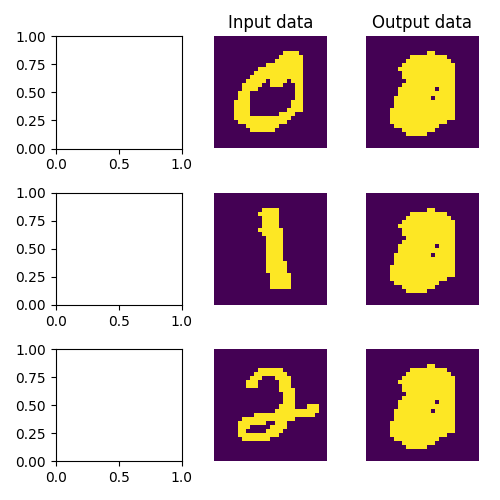
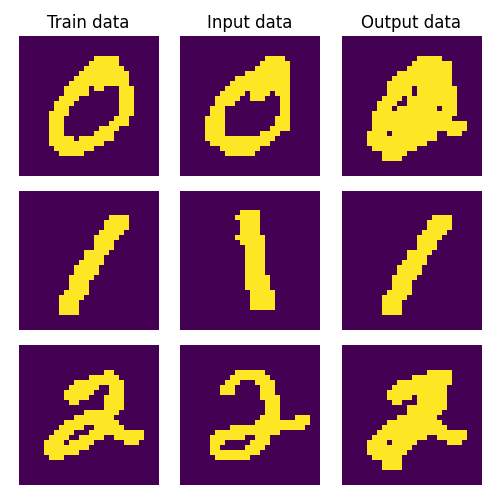
put ur comment here

diff --git a/project.py b/project.py
@@ -33,19 +33,20 @@ def reshape(data):
     data = np.reshape(data, (dim, dim))
     return data
 
-def plot(test, predicted, figsize=(5, 3)):
-    # data = [reshape(d) for d in data]
+def plot(data, test, predicted, figsize=(5, 3)):
+    data = [reshape(d) for d in data]
     test = [reshape(d) for d in test]
     predicted = [reshape(d) for d in predicted]
     
     fig, axarr = plt.subplots(len(test), 3, figsize=figsize)
     for i in range(len(test)):
         if i==0:
+            axarr[i, 0].set_title("Train data")
             axarr[i, 1].set_title("Input data")
             axarr[i, 2].set_title('Output data')
             
-        """axarr[i, 0].imshow(data[i])
-        axarr[i, 0].axis('off')"""
+        axarr[i, 0].imshow(data[i])
+        axarr[i, 0].axis('off')
         axarr[i, 1].imshow(test[i])
         axarr[i, 1].axis('off')
         axarr[i, 2].imshow(predicted[i])
@@ -70,26 +71,17 @@ def main():
     # Load data (60,000 test images)
     x_train = load_mnist_images(train_images_path)
     y_train = load_mnist_labels(train_labels_path)
-    temp_data = []
+    data = []
 
     # Define lists for selected data
     for digit in range(3):
         xi = x_train[y_train == digit]
-        temp_data.append(xi[:10])
+        data.append(xi[0])
 
     # Preprocessing
     print("Start to data preprocessing...")
-    data = []  # Initialize an empty list to store preprocessed images
-    for arr in temp_data:
-        for img in arr:
-            preprocessed_img = preprocessing(img)
-            data.append(preprocessed_img)
-    """for arr in temp_data:
-        temp_array = np.zeros(10)
-        for idx, img in enumerate(arr):
-            preprocessed_img = preprocessing(img)
-            temp_array[idx] = preprocessed_img
-            data.append(temp_array)"""
+    print(len(data))
+    data = [preprocessing(d) for d in data]
     
     # Create Hopfield Network Model
     model = Hopfieldnetwork.HopfieldNetwork()
@@ -104,7 +96,7 @@ def main():
     
     predicted = model.predict(test, threshold=50, asyn=False)
     print("Show prediction results...")
-    plot(test, predicted, figsize=(5, 5))
+    plot(data, test, predicted, figsize=(5, 5))
     print("Show network weights matrix...")
     model.plot_weights()
     
